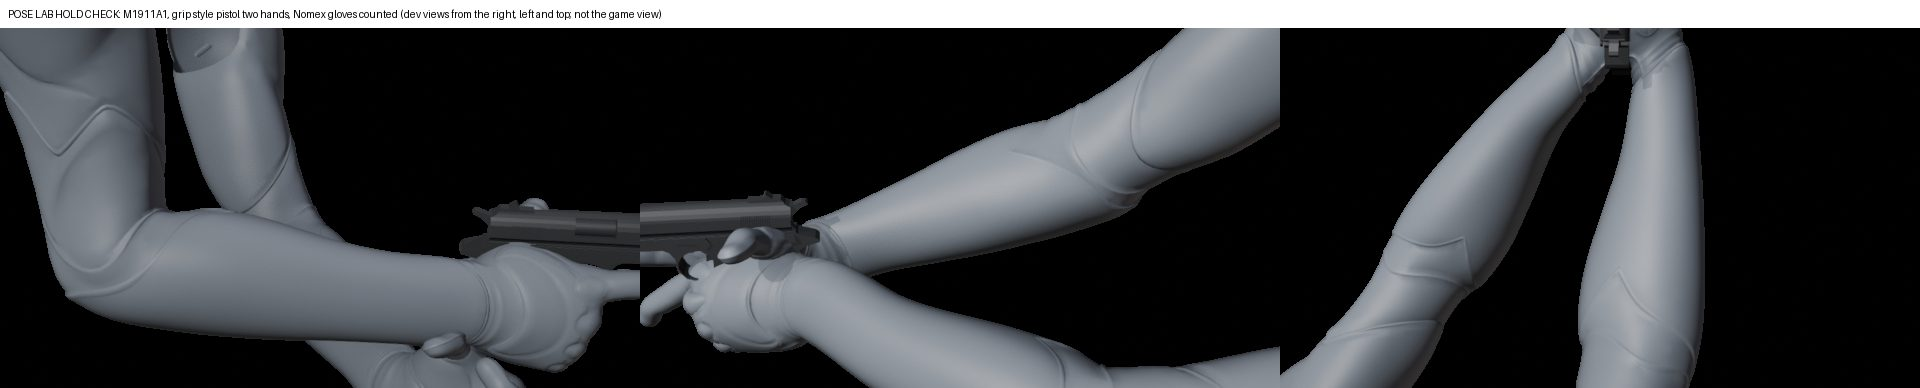
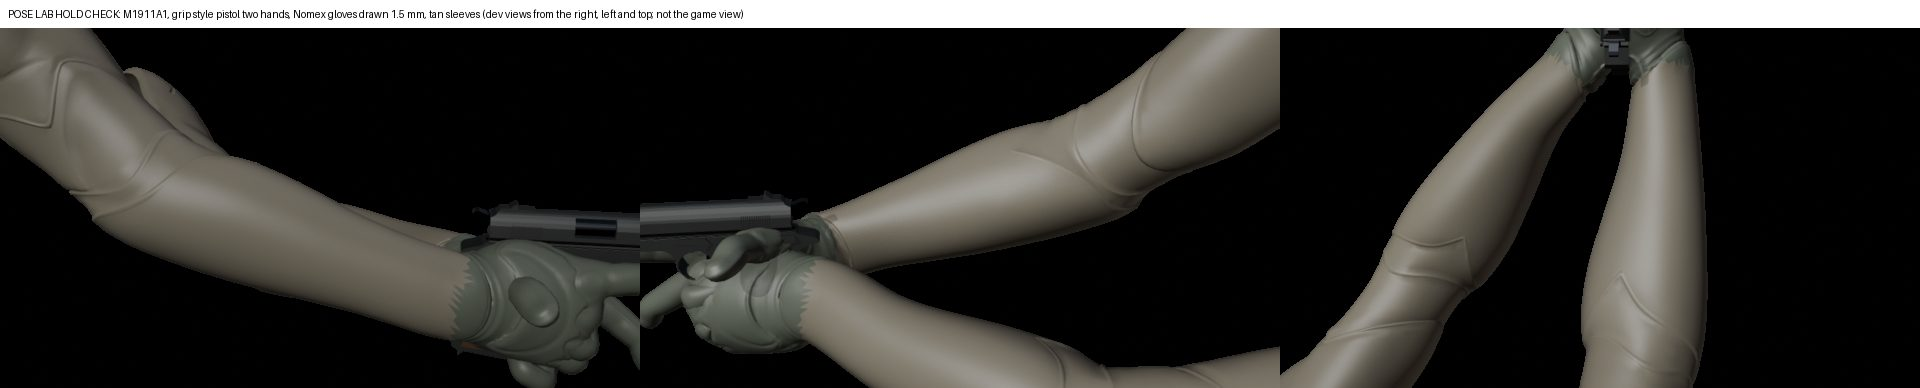
Gun Digitizer page: the Nomex gloves drawn, the web clip named, the grasp solver next

diff --git a/public/pages/gun-digitizer/index.html b/public/pages/gun-digitizer/index.html
@@ -357,7 +357,7 @@ footer { padding-top: 28px; border-top: 1px solid var(--rule); font-size: 14px; 
           <li><b>Working holds:</b> the rack, the press check, the magazine.</li>
           <li><b>Declared allowances:</b> body parts that may press into the gun, each with its reason.</li>
         </ul>
-        <p>Each hold searches its own turn, and a hand arcs round the gun between holds. The character's glove is counted where the palm sits, in how far the fingers close and in the clearance allowed.</p>
+        <p>Each hold searches its own turn, the firing hand searches its place on the grip, and a hand arcs round the gun between holds. The character's glove is counted where the palm sits, in how far the fingers close and in the clearance allowed, and it is drawn on the arms: the hands' surface 1.5 mm out, in olive Nomex.</p>
         <dl>
           <dt>Tools</dt><dd class="tools"><code>gunkit_build</code><code>gripstyles/pistol_two_hand.json</code><code>characters/nomex_full_gloves.json</code></dd>
           <dt>Gate</dt><dd>Every frame: anatomy, the style's grip rules, clearance with the glove, the sights each clip expects.</dd>
@@ -375,9 +375,9 @@ footer { padding-top: 28px; border-top: 1px solid var(--rule); font-size: 14px; 
             </tbody>
           </table>
         </div>
-        <div class="sample"><span class="eyebrow">Still failing</span>Clearance: the base of the support hand's index finger sits 0.77 cm in the gun. The support fingers should wrap over the firing hand's fingers, but Pose Lab tests a hand against the gun only, not against the other hand. The working clips still bend the support wrist past 30 degrees on part of their way. The gloves are counted in the checks but not yet drawn on the arms.</div>
+        <div class="sample"><span class="eyebrow">Still failing</span>Clearance, on every frame: the firing hand's web and the ball of its thumb run about 1 cm into the gun at the tang, and the base of the support index finger 0.77 cm into the grip. Five ways of placing the hand did not clear it. The fix is a grasp solver that places the whole hand and every finger against the gun's surface at once, and tests the support fingers against the firing hand too; Pose Lab tests a hand against the gun only. The working clips still bend the support wrist past 30 degrees on part of their way.</div>
       </div>
-      <figure class="figure"><img src="img/hands_hold.jpg" alt="The two-handed hold from the right, the left and the top: both arms forward, the firing hand on the grip with the trigger finger along the frame, the support hand wrapped under it." width="1920" height="388"><figcaption><b>Figure 7.</b> The pistol two-hand hold on the M1911A1, from the right, the left and the top. Pose Lab dev views, not the game view; the gloves are not drawn yet.</figcaption></figure>
+      <figure class="figure"><img src="img/hands_hold.jpg" alt="The two-handed hold from the right, the left and the top: both arms forward in tan sleeves, olive Nomex gloves, the firing hand on the grip with the trigger finger along the frame, the support hand wrapped under it." width="1920" height="388"><figcaption><b>Figure 7.</b> The pistol two-hand hold on the M1911A1 with the character's olive Nomex gloves, from the right, the left and the top. Pose Lab dev views, not the game view.</figcaption></figure>
     </article>
 
     <article class="step nofig">
@@ -468,7 +468,7 @@ footer { padding-top: 28px; border-top: 1px solid var(--rule); font-size: 14px; 
     <div class="body">
       <h3>Next</h3>
       <ul class="list">
-        <li>Finish the hands (step 10): the support fingers wrapping over the firing hand, the working clips, the gloves drawn on the arms, the eye view checked in the game.</li>
+        <li>Finish the hands (step 10): a grasp solver for the whole hand against the gun and the other hand, the working clips, the eye view checked in the game.</li>
         <li>Fit and feature checks, as Model Lab makes for its AR-15: each part's features one by one, a magazine in an open well, the slide's travel clear of the hammer, the sights in line.</li>
         <li>Cross-sections for the frame, the magazine and the small parts.</li>
         <li>The AR-15 from its blueprint, checked against Model Lab's hand-built AR-15.</li>
